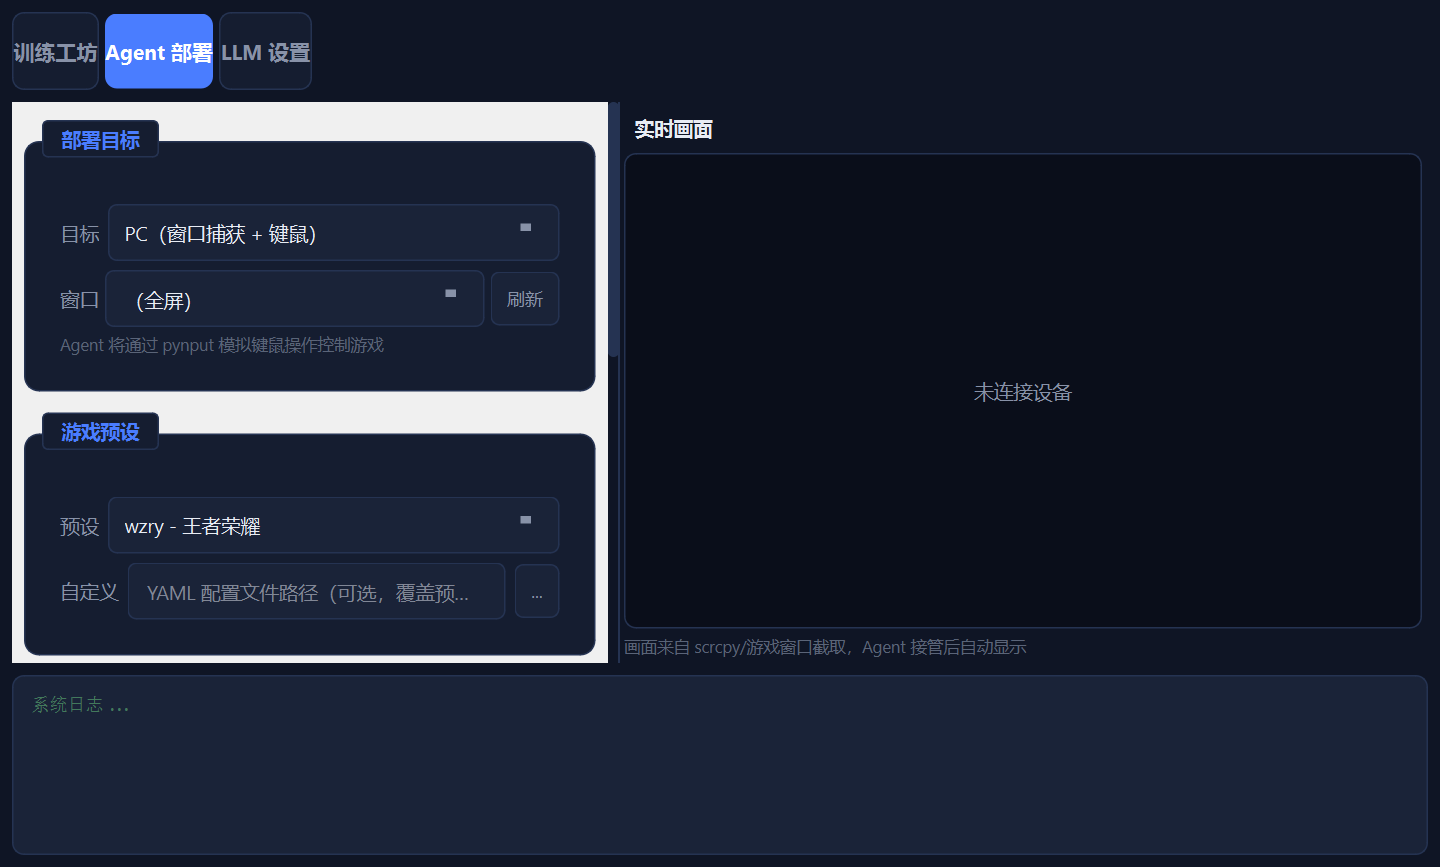
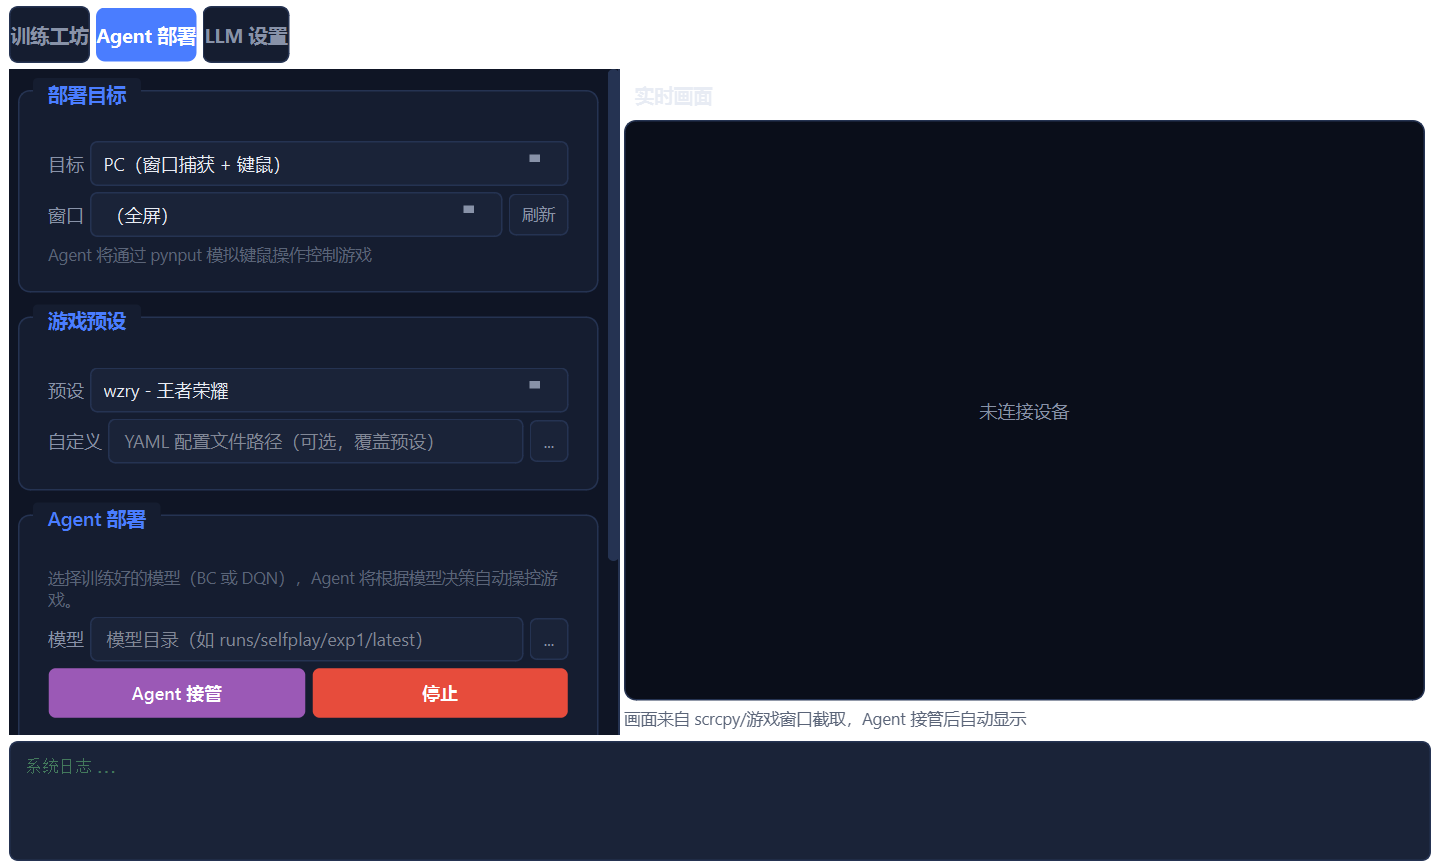
优化 GUI 布局：消除亮色带、收紧间距、缩小控件尺寸
- GroupBox: 减小 margin-top/padding，去掉标题边框
- 全局控件: 缩小字号、padding、min-height（更紧凑）
- 修复 ScrollArea 背景色透出问题
- 各面板统一收紧 spacing 和 margins

diff --git a/vision_agent/gui/workshop_panel.py b/vision_agent/gui/workshop_panel.py
@@ -132,13 +132,13 @@ class WorkshopPanel(QWidget):
         scroll.setFrameShape(QFrame.NoFrame)
         content = QWidget()
         layout = QVBoxLayout(content)
-        layout.setContentsMargins(8, 8, 8, 8)
-        layout.setSpacing(10)
+        layout.setContentsMargins(6, 4, 6, 4)
+        layout.setSpacing(6)
 
         # ━━━ 场景管理 ━━━
         scene_group = QGroupBox("场景管理")
         sg_layout = QVBoxLayout(scene_group)
-        sg_layout.setSpacing(6)
+        sg_layout.setSpacing(4)
 
         scene_row = QHBoxLayout()
         self.scene_combo = QComboBox()
@@ -177,7 +177,7 @@ class WorkshopPanel(QWidget):
         # ━━━ 录制操作 ━━━
         source_group = QGroupBox("录制操作")
         src_layout = QVBoxLayout(source_group)
-        src_layout.setSpacing(6)
+        src_layout.setSpacing(4)
 
         rec_layout = src_layout
 
@@ -255,14 +255,12 @@ class WorkshopPanel(QWidget):
         self.record_start_btn = QPushButton("开始录制")
         self.record_start_btn.setObjectName("startBtn")
         self.record_start_btn.setCursor(Qt.PointingHandCursor)
-        self.record_start_btn.setMinimumHeight(36)
         self.record_start_btn.clicked.connect(self.recording_started)
         rec_btn_row.addWidget(self.record_start_btn)
 
         self.record_stop_btn = QPushButton("停止录制")
         self.record_stop_btn.setObjectName("stopBtn")
         self.record_stop_btn.setCursor(Qt.PointingHandCursor)
-        self.record_stop_btn.setMinimumHeight(36)
         self.record_stop_btn.setEnabled(False)
         self.record_stop_btn.clicked.connect(self.recording_stopped)
         rec_btn_row.addWidget(self.record_stop_btn)
@@ -274,7 +272,7 @@ class WorkshopPanel(QWidget):
 
         # 录制列表
         self.recording_list = QListWidget()
-        self.recording_list.setMaximumHeight(100)
+        self.recording_list.setMaximumHeight(72)
         self.recording_list.setSelectionMode(QAbstractItemView.ExtendedSelection)
         self.recording_list.setStyleSheet(
             f"QListWidget {{ background: {COLORS['bg_input']}; "
@@ -326,7 +324,7 @@ class WorkshopPanel(QWidget):
         kg.addLayout(kb_btn_row)
 
         self.knowledge_input = QTextEdit()
-        self.knowledge_input.setMaximumHeight(100)
+        self.knowledge_input.setMaximumHeight(72)
         self.knowledge_input.setPlaceholderText(
             "输入或导入场景规则/教程，例如：\n"
             "• 这是王者荣耀5v5 MOBA 游戏\n"
@@ -349,10 +347,10 @@ class WorkshopPanel(QWidget):
         self.learn_btn = QPushButton("开始学习")
         self.learn_btn.setObjectName("startBtn")
         self.learn_btn.setCursor(Qt.PointingHandCursor)
-        self.learn_btn.setMinimumHeight(42)
+        self.learn_btn.setMinimumHeight(34)
         self.learn_btn.setStyleSheet(
             self.learn_btn.styleSheet() +
-            "QPushButton#startBtn { font-size: 15px; }"
+            "QPushButton#startBtn { font-size: 13px; }"
         )
         self.learn_btn.clicked.connect(self._on_learn_clicked)
         layout.addWidget(self.learn_btn)
@@ -368,7 +366,7 @@ class WorkshopPanel(QWidget):
         # ━━━ 学习进度 + 见解 ━━━
         progress_group = QGroupBox("学习进度")
         pg = QVBoxLayout(progress_group)
-        pg.setSpacing(6)
+        pg.setSpacing(4)
 
         self.progress_bar = QProgressBar()
         self.progress_bar.setRange(0, 100)
@@ -382,7 +380,7 @@ class WorkshopPanel(QWidget):
 
         self.insight_text = QTextEdit()
         self.insight_text.setReadOnly(True)
-        self.insight_text.setMaximumHeight(100)
+        self.insight_text.setMaximumHeight(68)
         self.insight_text.setPlaceholderText("LLM 分析见解...")
         pg.addWidget(self.insight_text)
 
@@ -391,7 +389,7 @@ class WorkshopPanel(QWidget):
         # ━━━ 模型管理 ━━━
         model_group = QGroupBox("训练产出")
         mg_layout = QVBoxLayout(model_group)
-        mg_layout.setSpacing(6)
+        mg_layout.setSpacing(4)
 
         from .train_chart import TrainChart
         self.train_chart = TrainChart()
@@ -421,7 +419,7 @@ class WorkshopPanel(QWidget):
         # ━━━ 日志 ━━━
         self.log_text = QTextEdit()
         self.log_text.setReadOnly(True)
-        self.log_text.setMaximumHeight(150)
+        self.log_text.setMaximumHeight(100)
         layout.addWidget(self.log_text)
 
         # ━━━ 高级设置（折叠） ━━━

diff --git a/vision_agent/gui/styles.py b/vision_agent/gui/styles.py
@@ -44,16 +44,18 @@ COLORS = {
 MAIN_STYLESHEET = f"""
 /* ── 全局 ── */
 QMainWindow {{ background-color: {COLORS['bg_base']}; }}
-QWidget {{ font-family: "Segoe UI", "Microsoft YaHei UI", sans-serif; }}
+QWidget {{ font-family: "Segoe UI", "Microsoft YaHei UI", sans-serif; background-color: transparent; }}
+QScrollArea {{ background-color: {COLORS['bg_base']}; }}
+QScrollArea > QWidget > QWidget {{ background-color: {COLORS['bg_base']}; }}
 
 /* ── 分组框 ── */
 QGroupBox {{
     background-color: {COLORS['bg_card']};
     border: 1px solid {COLORS['border']};
-    border-radius: 10px;
-    margin-top: 18px;
-    padding: 14px;
-    padding-top: 32px;
+    border-radius: 8px;
+    margin-top: 10px;
+    padding: 8px 10px;
+    padding-top: 24px;
     color: {COLORS['text']};
     font-weight: 600;
     font-size: 13px;
@@ -61,21 +63,21 @@ QGroupBox {{
 QGroupBox::title {{
     subcontrol-origin: margin;
     subcontrol-position: top left;
-    left: 12px;
-    top: 4px;
-    padding: 3px 10px;
-    font-size: 13px;
+    left: 10px;
+    top: 2px;
+    padding: 2px 8px;
+    font-size: 12px;
     font-weight: 700;
     color: {COLORS['accent']};
     background-color: {COLORS['bg_card']};
-    border: 1px solid {COLORS['border']};
-    border-radius: 4px;
+    border: none;
+    border-radius: 3px;
 }}
 
 /* ── 标签 ── */
 QLabel {{
     color: {COLORS['text_secondary']};
-    font-size: 13px;
+    font-size: 12px;
     padding: 0px;
 }}
 
@@ -84,10 +86,10 @@ QComboBox, QLineEdit, QSpinBox, QDoubleSpinBox {{
     background-color: {COLORS['bg_input']};
     color: {COLORS['text']};
     border: 1px solid {COLORS['border']};
-    border-radius: 6px;
-    padding: 5px 10px;
-    min-height: 26px;
-    font-size: 13px;
+    border-radius: 5px;
+    padding: 3px 8px;
+    min-height: 22px;
+    font-size: 12px;
     selection-background-color: {COLORS['accent']};
 }}
 QComboBox:hover, QLineEdit:hover, QSpinBox:hover, QDoubleSpinBox:hover {{
@@ -122,11 +124,11 @@ QComboBox QAbstractItemView {{
 
 /* ── 按钮通用 ── */
 QPushButton {{
-    border-radius: 6px;
-    padding: 7px 16px;
-    font-size: 13px;
+    border-radius: 5px;
+    padding: 4px 14px;
+    font-size: 12px;
     font-weight: 600;
-    min-height: 30px;
+    min-height: 24px;
     border: 1px solid transparent;
 }}
 QPushButton:disabled {{
@@ -158,9 +160,9 @@ QPushButton#browseBtn {{
     background-color: {COLORS['bg_input']};
     color: {COLORS['text_secondary']};
     border: 1px solid {COLORS['border']};
-    padding: 5px 10px;
-    min-height: 24px;
-    font-size: 12px;
+    padding: 3px 8px;
+    min-height: 20px;
+    font-size: 11px;
     font-weight: normal;
 }}
 QPushButton#browseBtn:hover {{
@@ -192,10 +194,10 @@ QTextEdit {{
     background-color: {COLORS['bg_input']};
     color: {COLORS['log_green']};
     border: 1px solid {COLORS['border']};
-    border-radius: 8px;
+    border-radius: 6px;
     font-family: "Cascadia Code", "Consolas", "Courier New", monospace;
-    font-size: 12px;
-    padding: 8px;
+    font-size: 11px;
+    padding: 6px;
     selection-background-color: {COLORS['accent']};
 }}
 
@@ -241,11 +243,11 @@ QTabBar::tab:selected {{
 QProgressBar {{
     background-color: {COLORS['bg_input']};
     border: 1px solid {COLORS['border']};
-    border-radius: 6px;
+    border-radius: 5px;
     text-align: center;
     color: {COLORS['text']};
-    font-size: 12px;
-    min-height: 22px;
+    font-size: 11px;
+    min-height: 18px;
 }}
 QProgressBar::chunk {{
     background: qlineargradient(x1:0, y1:0, x2:1, y2:0,

diff --git a/vision_agent/gui/selfplay_panel.py b/vision_agent/gui/selfplay_panel.py
@@ -46,13 +46,13 @@ class SelfPlayPanel(QWidget):
         left_scroll.setFrameShape(QFrame.NoFrame)
         left_content = QWidget()
         left_layout = QVBoxLayout(left_content)
-        left_layout.setContentsMargins(8, 8, 8, 8)
-        left_layout.setSpacing(10)
+        left_layout.setContentsMargins(6, 4, 6, 4)
+        left_layout.setSpacing(6)
 
         # ━━━ 部署目标 ━━━
         target_group = QGroupBox("部署目标")
         tg = QVBoxLayout(target_group)
-        tg.setSpacing(6)
+        tg.setSpacing(4)
 
         target_row = QHBoxLayout()
         target_row.addWidget(QLabel("目标"))
@@ -125,7 +125,7 @@ class SelfPlayPanel(QWidget):
         # ━━━ 游戏预设 ━━━
         preset_group = QGroupBox("游戏预设")
         pg = QVBoxLayout(preset_group)
-        pg.setSpacing(6)
+        pg.setSpacing(4)
 
         preset_row = QHBoxLayout()
         preset_row.addWidget(QLabel("预设"))
@@ -150,7 +150,7 @@ class SelfPlayPanel(QWidget):
         # ━━━ Agent 部署 ━━━
         agent_group = QGroupBox("Agent 部署")
         ag = QVBoxLayout(agent_group)
-        ag.setSpacing(6)
+        ag.setSpacing(4)
 
         agent_info = QLabel(
             "选择训练好的模型（BC 或 DQN），Agent 将根据模型决策自动操控游戏。"
@@ -174,13 +174,13 @@ class SelfPlayPanel(QWidget):
         self.agent_start_btn = QPushButton("Agent 接管")
         self.agent_start_btn.setObjectName("purpleBtn")
         self.agent_start_btn.setCursor(Qt.PointingHandCursor)
-        self.agent_start_btn.setMinimumHeight(42)
+        self.agent_start_btn.setMinimumHeight(32)
         agent_btn_row.addWidget(self.agent_start_btn)
 
         self.agent_stop_btn = QPushButton("停止")
         self.agent_stop_btn.setObjectName("stopBtn")
         self.agent_stop_btn.setCursor(Qt.PointingHandCursor)
-        self.agent_stop_btn.setMinimumHeight(42)
+        self.agent_stop_btn.setMinimumHeight(32)
         self.agent_stop_btn.setEnabled(False)
         agent_btn_row.addWidget(self.agent_stop_btn)
         ag.addLayout(agent_btn_row)
@@ -194,7 +194,7 @@ class SelfPlayPanel(QWidget):
         # ━━━ 日志 ━━━
         self.log_text = QTextEdit()
         self.log_text.setReadOnly(True)
-        self.log_text.setMaximumHeight(200)
+        self.log_text.setMaximumHeight(120)
         self.log_text.setPlaceholderText("Agent 日志...")
         left_layout.addWidget(self.log_text)
 
@@ -209,7 +209,7 @@ class SelfPlayPanel(QWidget):
 
         screen_label = QLabel("实时画面")
         screen_label.setStyleSheet(
-            f"color: {COLORS['text']}; font-size: 13px; font-weight: bold; padding: 4px;"
+            f"color: {COLORS['text']}; font-size: 12px; font-weight: bold; padding: 2px;"
         )
         right_layout.addWidget(screen_label)
 

diff --git a/vision_agent/gui/main_window.py b/vision_agent/gui/main_window.py
@@ -23,19 +23,19 @@ _MODE_BTN_STYLE = f"""
 QPushButton#modeBtnActive {{
     background-color: {COLORS['accent']};
     color: white;
-    font-size: 14px;
+    font-size: 13px;
     font-weight: bold;
-    border-radius: 8px;
-    padding: 10px 0px;
+    border-radius: 6px;
+    padding: 6px 0px;
     border: none;
 }}
 QPushButton#modeBtnInactive {{
     background-color: {COLORS['bg_card']};
     color: {COLORS['text_secondary']};
-    font-size: 14px;
+    font-size: 13px;
     font-weight: bold;
-    border-radius: 8px;
-    padding: 10px 0px;
+    border-radius: 6px;
+    padding: 6px 0px;
     border: 1px solid {COLORS['border']};
 }}
 QPushButton#modeBtnInactive:hover {{
@@ -100,8 +100,8 @@ class MainWindow(QMainWindow):
         central = QWidget()
         self.setCentralWidget(central)
         root_layout = QVBoxLayout(central)
-        root_layout.setContentsMargins(8, 8, 8, 8)
-        root_layout.setSpacing(8)
+        root_layout.setContentsMargins(6, 4, 6, 4)
+        root_layout.setSpacing(4)
 
         # 模式切换
         mode_row = QHBoxLayout()
@@ -133,7 +133,7 @@ class MainWindow(QMainWindow):
         # 底部日志
         self.log_text = QTextEdit()
         self.log_text.setReadOnly(True)
-        self.log_text.setMaximumHeight(120)
+        self.log_text.setMaximumHeight(80)
         self.log_text.setPlaceholderText("系统日志...")
         root_layout.addWidget(self.log_text)
 

diff --git a/vision_agent/gui/llm_panel.py b/vision_agent/gui/llm_panel.py
@@ -26,8 +26,8 @@ class LLMPanel(QWidget):
         scroll.setFrameShape(QFrame.NoFrame)
         content = QWidget()
         layout = QVBoxLayout(content)
-        layout.setContentsMargins(8, 8, 8, 8)
-        layout.setSpacing(10)
+        layout.setContentsMargins(6, 4, 6, 4)
+        layout.setSpacing(6)
 
         # 说明
         hint = QLabel("标注、自动学习、对话控制共用此配置")
@@ -64,13 +64,13 @@ class LLMPanel(QWidget):
         self.llm_test_btn = QPushButton("测试连接")
         self.llm_test_btn.setObjectName("infoBtn")
         self.llm_test_btn.setCursor(Qt.PointingHandCursor)
-        self.llm_test_btn.setMinimumHeight(38)
+        self.llm_test_btn.setMinimumHeight(30)
         btn_row.addWidget(self.llm_test_btn)
 
         self.llm_save_btn = QPushButton("保存配置")
         self.llm_save_btn.setObjectName("startBtn")
         self.llm_save_btn.setCursor(Qt.PointingHandCursor)
-        self.llm_save_btn.setMinimumHeight(38)
+        self.llm_save_btn.setMinimumHeight(30)
         btn_row.addWidget(self.llm_save_btn)
 
         layout.addLayout(btn_row)
